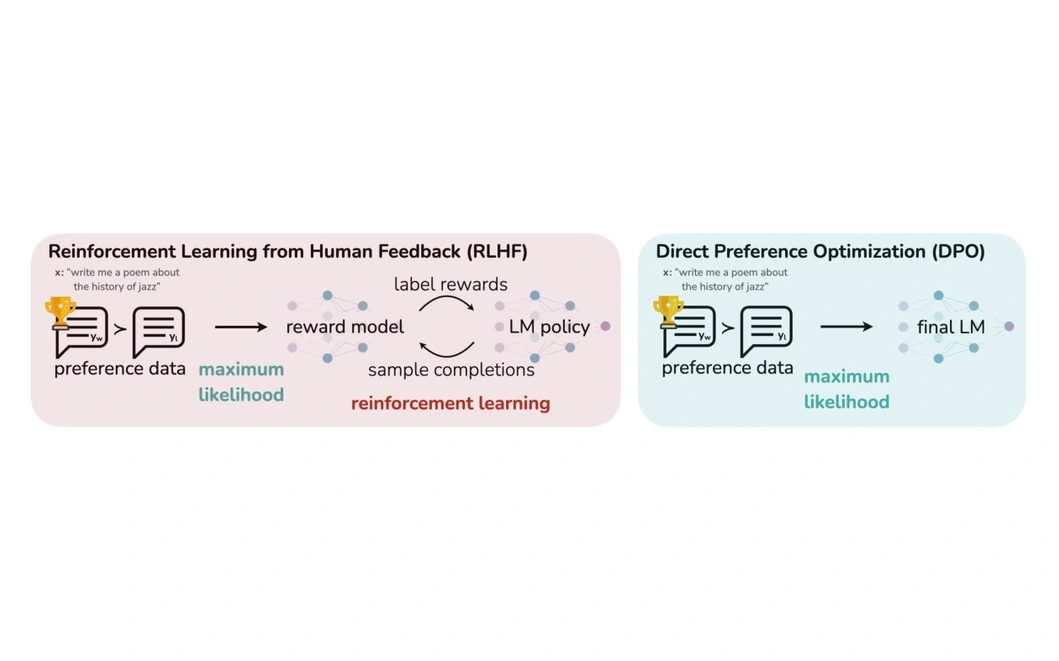
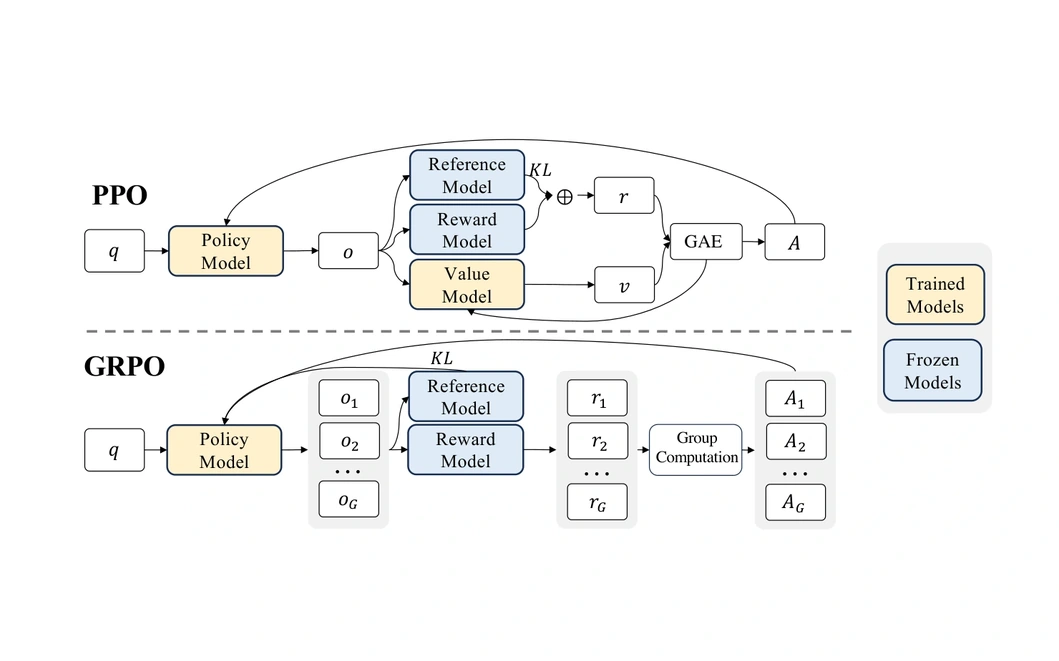
发布强化学习笔记（二）：DPO、GRPO、DAPO 与 GSPO，并互开两篇引用链接

diff --git a/notes/强化学习/强化学习（二）.md b/notes/强化学习/强化学习（二）.md
@@ -1,0 +1,275 @@
+---
+title: "大模型强化学习（二）：DPO、GRPO、DAPO 与 GSPO"
+date: 2026-10-13 00:00:00 +0800
+permalink: /posts/llm-rl-dpo-grpo-dapo-gspo/
+description: "面向强化学习初学者，讲 DPO、GRPO、DAPO、GSPO 四个算法如何在 PPO 框架上做替代与改进。"
+categories: [Reinforcement Learning]
+tags: [LLM, RLHF, DPO, GRPO, DAPO, GSPO]
+math: true
+toc: true
+image:
+  path: /assets/img/rl/rl2-cover.webp
+  alt: "PPO 与 GRPO 的训练流程对比"
+---
+
+<div class="qwen-note" markdown="1">
+
+这是"大模型强化学习"系列的第二篇。第一篇把基础（策略梯度、Actor-Critic）和 **PPO** 讲完了，这一篇讲剩下的四个算法：**DPO、GRPO、DAPO、GSPO**。
+
+先回顾 PPO 的框架：
+
+- PPO 是 **Actor-Critic** 架构：Actor 是语言模型，Critic（价值模型）负责预测基线；
+- 更新时用**重要性采样**让同一批数据能多学几遍，再用**裁剪**限制每次更新的幅度；
+- 代价是要同时维护四个模型：Actor、Critic、Reference、Reward。
+
+如果还没看过[第一篇](/posts/llm-rl-ppo/)，建议先补一下策略梯度和 PPO，本篇会直接用到那两节的结论。
+
+## 1. DPO：把 RL 化简成分类问题
+
+DPO（Direct Preference Optimization，直接偏好优化）来自 2023 年的论文，它的推导同样从"KL 正则化的奖励最大化"出发，只是把优化问题化简成了一个可以直接训练的偏好分类损失。
+
+### 1.1 动机
+
+标准 RLHF 分两步：先用人类偏好数据训练一个**奖励模型**，再用 PPO 优化语言模型，让它拿更高的分、同时不要偏离参考模型：
+
+$$
+\max_{\pi_\theta}\ \mathbb E\Big[r_\phi(x,y)\Big]-\beta\,D_{KL}\Big[\pi_\theta(y\mid x)\,\Big\|\,\pi_{\text{ref}}(y\mid x)\Big]
+$$
+
+$r_\phi$ 是奖励模型的打分（$\phi$ 是它的参数），$\beta$ 控制 KL 约束的强度。这套流程有两个痛点：**要训练多个模型**（奖励模型 + 策略模型，PPO 还要价值模型），而且 **PPO 超参敏感、训练容易崩**。DPO 的想法是：奖励模型只是为了"表达偏好"——哪个回答得分更高、哪个回答得分更低，那能不能直接从偏好数据优化语言模型，跳过它？
+
+### 1.2 DPO 的损失函数
+人类偏好常用 **Bradley-Terry 模型**描述：$p^*(y_1\succ y_2)=\sigma(r^*(y_1)-r^*(y_2))$。$y_1\succ y_2$ 表示人类更偏好 $y_1$，$r^*$ 是**真实但未知**的奖励函数，$\sigma$ 是 sigmoid。
+
+DPO 最精妙的地方在于，它通过数学变换，把奖励模型“消掉”了。在传统 RLHF 中，最优策略 \( \pi^* \) 与奖励函数 \( r \) 之间存在一个已知的闭式关系。DPO 的作者把这个关系反过来写，**用策略来表示奖励**，再代回偏好模型（Bradley-Terry 模型）中，就得到了一个**完全不包含显式奖励函数**的损失函数：
+
+$$
+L_{DPO}=-\mathbb E_{(x,y_w,y_l)\sim\mathcal D}\left[\log\sigma\left(\beta\log\frac{\pi_\theta(y_w\mid x)}{\pi_{\text{ref}}(y_w\mid x)}-\beta\log\frac{\pi_\theta(y_l\mid x)}{\pi_{\text{ref}}(y_l\mid x)}\right)\right]
+$$
+
+$y_w$ 是 winner（人类偏好的回答），$y_l$ 是 loser（不被偏好的），$\mathcal D$ 是偏好数据集，$\beta$ 是温度系数（典型 $0.1$ 左右），$\sigma$ 把括号里的差值映射到 $(0,1)$ 当作"$y_w$ 优于 $y_l$"的概率，外面的负号是因为我们常常做的是梯度下降，所以带上负号将整体最小化。这个式子计算“好回答相对于参考模型的概率提升幅度”与“坏回答相对于参考模型的概率提升幅度”之间的差值。训练的目标就是把这个差值拉大——也就是提高好回答的相对概率，同时压低坏回答的相对概率。
+
+方括号里的两项定义了一个**隐式奖励** $\hat r_\theta=\beta\log\frac{\pi_\theta(y\mid x)}{\pi_{\text{ref}}(y\mid x)}$——它不是奖励模型，但却可以利用策略模型的输出形成奖励信号，这就是标题里"Language Model is Secretly a Reward Model"的含义，也就是前文说的**用策略来表示奖励**。我们可以看看它们的梯度：
+
+$$
+\nabla_\theta L_{DPO}=-\beta\,\mathbb E\left[\underbrace{\sigma\big(\hat r_\theta(y_l)-\hat r_\theta(y_w)\big)}_{\text{判断错得越离谱，权重越大}}\Big(\underbrace{\nabla_\theta\log\pi_\theta(y_w\mid x)}_{\text{提高好回答}}-\underbrace{\nabla_\theta\log\pi_\theta(y_l\mid x)}_{\text{降低坏回答}}\Big)\right]
+$$
+
+权重项：模型还认为坏回答更好时权重接近 1、梯度大；已经判断对了权重接近 0、梯度自动变小。整个式子不需要采样和额外模型，就是一个普通监督学习损失。
+
+![DPO 论文 Figure 1：RLHF 与 DPO 的流程对比](/assets/img/rl/dpo-rlhf-vs-dpo.webp){: .qwen-figure width="1212" height="264" }
+
+图 1 · 左边是传统 RLHF（先训奖励模型再 RL），右边是 DPO（直接用偏好数据做最大似然）。来源：[DPO 原论文，Figure 1](https://arxiv.org/abs/2305.18290)。
+{: .qwen-caption }
+
+DPO 论文的实验也验证了它在"奖励—KL 权衡曲线"上的位置：
+
+![DPO 论文 Figure 2：奖励与 KL 的权衡曲线](/assets/img/rl/dpo-reward-kl.webp){: .qwen-figure width="1212" height="474" }
+
+图 2 · 左图横轴是相对参考模型的 KL 散度，纵轴是真实奖励；在同样的 KL 预算下，DPO 能达到更高的奖励。右图是摘要任务中不同方法对参考模型的胜率随采样温度的变化。来源：[DPO 原论文，Figure 2](https://arxiv.org/abs/2305.18290)。
+{: .qwen-caption }
+
+**DPO 的局限**：它完全依赖**离线**偏好数据集，训练中模型不探索新回答，一旦跑出数据分布就没有纠正信号。这也是后来 GRPO 这类**在线**算法又流行起来的原因。
+
+## 2. GRPO：用组内比较替代价值模型
+
+GRPO（Group Relative Policy Optimization）由 DeepSeek 在 2024 年的 DeepSeekMath 论文中提出，后被 DeepSeek-R1 带火。
+
+### 2.1 动机
+
+PPO 的痛点是优势要靠 GAE，而 GAE 需要一个和策略模型差不多大的**价值模型**，这也是在第一篇里提到的 PPO 最大的问题。
+
+那用什么当基线？GRPO 的回答是：**同一道题多生成几条回答，用它们之间的相对好坏当基线。** 有点对比学习的味道。 对每道题采样 $G$ 条回答并打分，然后标准化：
+
+$$
+\hat A_{i,t}=\tilde r_i=\frac{r_i-\operatorname{mean}(\mathbf r)}{\operatorname{std}(\mathbf r)},
+\qquad \mathbf r=\{r_1,\dots,r_G\}
+$$
+
+$G$ 是组大小（DeepSeekMath 用 64，DAPO 用 16），$r_i$ 是第 $i$ 条回答的奖励，$\operatorname{mean}$ 是这一组奖励的**平均值**（充当基线），$\operatorname{std}$ 是标准差（用来归一化）。注意**同一条回答里所有 token 共享同一个优势**——因为奖励是整段给的，GRPO 就把它原样广播给每个 token。好处有三：**省掉价值模型**（显存大幅下降）、**基线天然合理**（同题回答互相比较，比全局价值函数更贴合"这道题有多难"）、**与奖励模型的训练方式一致**。如果某道题所有回答都对（或都错），奖励全相等，标准差为 0，优势全为 0——**这道题不产生任何梯度**（实现上分母会加一个极小值避免除零）。
+
+> 实现细节：$\operatorname{std}$ 有**总体**和**样本**两种约定，不同框架取法不同，归一化后的数值会有细微差别。
+
+![GRPO 组内比较：同一道题的四条回答如何算出优势](/assets/img/rl/grpo-group.webp){: .qwen-figure width="1723" height="880" }
+
+图 3 · 同一道题采样 4 条回答，两条答对、两条答错。用组内均值 0.5 当基线做标准化（标准差 0.5），答对的拿到正优势 $+1$，答错的拿到负优势 $-1$。注意四个优势相加正好为 0。
+{: .qwen-caption }
+
+### 2.2 GRPO 的目标函数
+
+$$
+J^{GRPO}(\theta)=\mathbb E\Bigg[\frac{1}{G}\sum_{i=1}^{G}\frac{1}{|o_i|}\sum_{t=1}^{|o_i|}\bigg(\min\Big(w_{i,t}(\theta)\hat A_{i,t},\ \operatorname{clip}\big(w_{i,t}(\theta),1-\epsilon,1+\epsilon\big)\hat A_{i,t}\Big)-\beta\,D_{KL}\big[\pi_\theta\,\|\,\pi_{\text{ref}}\big]\bigg)\Bigg]
+$$
+
+$w_{i,t}$ 就是 PPO 里那个 token 级概率比率；外层对组内回答求平均，内层对每条回答内部的 token 求平均，这也意味着每条回答权重相同。$\epsilon$ 通常 $0.2$，$\beta$ 是 KL 惩罚系数（DeepSeekMath 用 $0.04$）。**和 PPO 的一个实现差异**：GRPO 不把 KL 加进奖励，而是**直接加到损失上**，好处是优势的计算不被 KL 项污染。
+
+对照[第一篇](/posts/llm-rl-ppo/)里那张 PPO 与 GRPO 的流程对比图（看下半部分）可以发现，GRPO 的流程里 **Value Model 整个消失了**——这正是它相对 PPO 最核心的简化。
+
+## 3. DAPO：针对 GRPO 的四处短板做特化
+
+DAPO 全称 **Decoupled Clip and Dynamic sAmpling Policy Optimization**（解耦裁剪与动态采样策略优化），来自字节跳动 Seed 团队与清华 AIR。它整体沿用了 GRPO 的框架，主要是进行了四处改动。
+
+| GRPO 的痛点 | 具体表现 | DAPO 的药方 |
+| --- | --- | --- |
+| 探索被扼杀 | 对称裁剪把低概率 token 卡死，熵急剧下降 | **Clip-Higher**：解耦上下界 |
+| 梯度空转 | 一组回答全对或全错，优势全为 0，白算一遍 | **Dynamic Sampling**：筛掉后重采 |
+| 长度偏见 | 按回答归一化，长回答里每个 token 权重被稀释 | **Token-Level Loss**：按 token 数归一化 |
+| 超长惩罚粗暴 | 超过上限一刀切，边界处拿不到有效梯度 | **Overlong Reward Shaping**：渐进式惩罚 |
+
+**① Clip-Higher**
+
+GRPO 的裁剪是对称的 $[1-\epsilon,\,1+\epsilon]$。DAPO 把它拆成不对称的 $[1-\epsilon_{low},\,1+\epsilon_{high}]$，并让 $\epsilon_{high}>\epsilon_{low}$，重点放宽**上界**。这就是 DAPO 名字里 "Decoupled Clip" 的由来。
+
+为什么要放宽上界？关键在于：**裁剪卡住的是新旧策略的概率比率，不是 token 概率本身**。同一个上界 $1+\epsilon=1.2$，对不同旧概率的 token 意味着完全不同的上升空间：
+
+- 旧概率 $0.9$ 的 token：$0.9\times1.2=1.08$ 已经超过 $1$ 了，而概率最多只能到 $1$（对应比率 $1/0.9\approx1.11$，还够不到 $1.2$）。所以这个上界对它**形同虚设**。
+- 旧概率 $0.01$ 的 token：比率一碰 $1.2$ 就封顶，概率最多到 $0.012$——涨了约等于没涨。
+
+而"探索型"的 token 恰恰都是低概率的，这会导致模型想尝试新思路概率却被迅速压下去，熵迅速掉到 $0$。**放宽上界（论文里从 $0.2$ 到 $0.28$）就是给这类 token 多留一点空间，鼓励更广泛的探索。**
+
+**② Dynamic Sampling**
+
+为了防止梯度空转，DAPO 进行了**采样后过滤、不够再补**的循环：
+
+1. 对一个 prompt 正常采样一组 $G$ 条回答；
+2. 立刻用奖励函数给每条回答打分；
+3. 算这组奖励的标准差：**如果为 0（全对或全错），整组丢弃**，不参与训练；
+4. 继续换 prompt 采样，直到凑满一个完整训练批次。
+
+保留条件就是**这组里存在 $i\neq j$ 使 $r_i\neq r_j$**；代码里通常直接写成 `if std(rewards) == 0: skip`。实现上还有个 `max_resample_times` 参数，防止在极端困难或极端简单的 prompt 上无限重试。
+
+**③ Token-Level Loss**
+
+两者唯一的区别就在分母上：
+
+$$
+L^{GRPO}=-\frac{1}{G}\sum_{i=1}^{G}\frac{1}{\lvert o_i\rvert}\sum_{t=1}^{\lvert o_i\rvert}(\cdots),
+\qquad
+L^{DAPO}=-\frac{1}{\sum_i\lvert o_i\rvert}\sum_{i=1}^{G}\sum_{t=1}^{\lvert o_i\rvert}(\cdots)
+$$
+
+GRPO 是"先算每条回答内部的平均，再对回答求平均"——每条回答**等权**。于是一条 1000 token 的长回答，内部每个 token 分到的权重只有短回答的几分之一，模型自然倾向于生成更短、可能推理不充分的答案。
+
+DAPO 直接把一个 batch 里**所有 token 的损失混在一起求全局平均**，分母是 $\sum_i\lvert o_i\rvert$，也就是所有回答的总 token 数。这样一来，不管 token 属于长回答还是短回答，**权重完全相同**，长度偏见被根除，长链推理里每一步都能拿到公平的优化信号。
+
+**④ Overlong Reward Shaping**
+
+GRPO 对超过最大长度的回答，常见做法是直接截断，或者给一个粗暴的固定惩罚（奖励置零、固定负值）。这种"一刀切"在边界处没有任何梯度——模型只知道"我被罚了"，不知道"稍微短一点会更好"。
+
+DAPO 换成一个**三段式**的长度惩罚，让惩罚随长度平滑变化：
+
+| 区间 | 长度范围 | 惩罚 |
+| --- | --- | --- |
+| 安全区 | $L\le L_{\max}-L_{\text{cache}}$ | $0$ |
+| 警告区 | $L_{\max}-L_{\text{cache}}<L\le L_{\max}$ | 从 $0$ **线性增加**到 $-1$ |
+| 超限区 | $L>L_{\max}$ | 固定最大惩罚（如 $-1$） |
+
+论文里取 $L_{\max}=16384$、$L_{\text{cache}}=4096$：它给模型一段能感知到的渐变区间，而不是一个固定上限。
+
+除了惩罚，还有一层 **Overlong Filtering**：把那些因为撞到最大长度而被强制截断的回答**直接从损失里剔除**。因为被截断的回答奖励噪声极大——模型分不清低分是"答得差"还是"只是被截断了"，留着反而污染梯度。
+
+**⑤去掉 KL 惩罚**
+
+DAPO 把 KL 项整个移除了。理由是在数学、代码这类**可验证奖励**的推理任务上，目标是让模型学出全新的推理能力，**有意地偏离初始策略**；这时把模型拴在 SFT 模型附近的 KL 锚定反而成了束缚。
+
+**效果（AIME24 avg@32）**：朴素 GRPO 30 → +Overlong Filtering 36 → +Clip-Higher 38 → +Soft Overlong Punishment 41 → +Token-level Loss 42 → **+Dynamic Sampling（完整 DAPO）50**。
+
+![DAPO 论文 Figure 2：Clip-Higher 对准确率和熵的影响](/assets/img/rl/dapo-clip-higher.webp){: .qwen-figure width="1440" height="486" }
+
+图 4 · 左图是 AIME 准确率，右图是生成熵。青色不用 Clip-Higher，紫色使用后。不用时熵在 500 步内掉到接近 0（熵坍缩），准确率停滞在 0.25；使用后熵稳定在 0.4~0.5，准确率升到接近 0.40。来源：[DAPO 原论文，Figure 2](https://arxiv.org/abs/2503.14476)。
+{: .qwen-caption }
+
+DAPO 论文还给出了训练过程中的四项监控指标：
+
+![DAPO 论文 Figure 7：训练过程中的四项关键指标](/assets/img/rl/dapo-metrics.webp){: .qwen-figure width="1440" height="927" }
+
+图 5 · (a) 平均回答长度从 1000 涨到 4500 左右，说明模型学会了更长的推理；(b) 奖励分数稳步上升；(c) 生成熵在初期快速下降后回升并稳定，说明既没有熵坍缩也没有失控；(d) 平均概率的变化。来源：[DAPO 原论文，Figure 7](https://arxiv.org/abs/2503.14476)。
+{: .qwen-caption }
+
+## 4. GSPO：把重要性比率换成序列级
+
+GSPO（Group Sequence Policy Optimization）来自 Qwen 团队 2025 年。
+它的改进是**把重要性比率、裁剪和优化的单位，从 token 改回序列**，让优化粒度重新和奖励粒度对齐。
+
+### 4.1 GRPO 的问题出在哪
+
+- 奖励是给**整段回答**的一个标量；
+- 但 GRPO 的重要性比率和裁剪，是**逐 token** 做的。
+
+这就产生一个结构性矛盾：整段回答共享同一个奖励，可回答内部不同 token 的新旧策略比率 $w_{i,t}$ 可能剧烈波动。这种 token 级方差会随着生成长度**累积**，再被裁剪机制**放大**，导致梯度估计严重偏差，训练可能在毫无征兆的情况下**崩溃，而且不可逆**。
+
+这个问题在 **MoE** 上尤其致命：MoE 里同一个 token 在新旧策略下可能被路由到不同专家，概率变化天然更剧烈。
+
+### 4.2 token -> 序列级比率
+
+GRPO 中的 token 级比率长这样：
+
+$$
+w_{i,t}(\theta)=\frac{\pi_\theta(y_{i,t}\mid x,\,y_{i,<t})}{\pi_{\theta_{\text{old}}}(y_{i,t}\mid x,\,y_{i,<t})}
+$$
+
+如果我们想改成序列级（样本级），那么最直接的方法就是把一个回答的 token 比率全部连乘：
+
+$$
+\frac{\pi_\theta(y_i\mid x)}{\pi_{\theta_{\text{old}}}(y_i\mid x)}=\prod_{t=1}^{\lvert y_i\rvert}w_{i,t}(\theta)
+$$
+
+问题来了：**连乘会随长度指数级膨胀或收缩**。同样程度的策略偏移，10 个 token 的回答比率可能才 $1.2$，500 个 token 的可能已经是几千。GSPO 的做法是对这个连乘**开 $\lvert y_i\rvert$ 次方**：
+
+$$
+s_i(\theta)=\left(\frac{\pi_\theta(y_i\mid x)}{\pi_{\theta_{\text{old}}}(y_i\mid x)}\right)^{\frac{1}{\lvert y_i\rvert}}
+$$
+
+开方就是**几何平均**，作用是**消掉长度**。它在数学上等价于"先对每个 token 的比率取对数、求算术平均，再取指数"，也就是实现里真正用的写法：
+
+$$
+s_i(\theta)=\exp\left(\frac{1}{\lvert y_i\rvert}\sum_{t=1}^{\lvert y_i\rvert}\log w_{i,t}(\theta)\right)
+$$
+
+这个式子可以理解成"新策略生成这个回答的**平均信心**变了多少"：$s_i>1$ 说明新策略对这个回答里 token 的平均概率提升了、更有信心；$s_i<1$ 说明整体信心下降。
+
+
+目标函数和 GRPO 几乎一样，只是把 token 级比率换成序列级、去掉内层 token 平均：
+
+$$
+J^{GSPO}(\theta)=\mathbb E\left[\frac{1}{G}\sum_{i=1}^{G}\min\Big(s_i(\theta)\hat A_i,\ \operatorname{clip}\big(s_i(\theta),1-\epsilon,1+\epsilon\big)\hat A_i\Big)\right]
+$$
+
+其中 $\hat A_i$ 是组相对优势，和 GRPO 完全相同。需要注意的是：序列比率的波动幅度比 token 级比率小得多，所以裁剪范围得重新调，论文实验里 GSPO 用 $3\times10^{-4}$ 和 $4\times10^{-4}$。
+
+![GSPO 论文 Figure 1：GSPO 与 GRPO 的训练曲线对比](/assets/img/rl/gspo-training-curves.webp){: .qwen-figure width="1389" height="801" }
+
+图 6 · 上方是训练奖励随算力的变化，下方是 AIME'24、LiveCodeBench 和 CodeForces 的成绩。在原论文这组实验里，同样算力下 GSPO（红）的曲线高于 GRPO（蓝）。来源：[GSPO 原论文，Figure 1](https://arxiv.org/abs/2507.18071)。
+{: .qwen-caption }
+
+GSPO 的这些优点已经应用到最新的 Qwen3 模型训练中。
+
+## 5. 横向对比
+
+| 算法 | 重要性比率 | 优势来源 | 损失聚合 | 裁剪 | 需要哪些模型 |
+| --- | --- | --- | --- | --- | --- |
+| PPO | token 级 $\frac{\pi_\theta}{\pi_{\theta_{\text{old}}}}$ | GAE + 价值模型 | 样本内按长度平均，再对样本平均 | $[1-\epsilon,1+\epsilon]$ | 策略 + 参考 + 奖励 + **价值** |
+| DPO | 无（不做重要性采样） | 无（直接拟合偏好概率） | 整个偏好对 | 无 | 策略 + 参考（离线偏好数据） |
+| GRPO | 同 PPO（token 级） | 组内标准化奖励 | 样本内按长度平均，再对样本平均 | $[1-\epsilon,1+\epsilon]$ | 策略 + 参考 + 奖励 |
+| DAPO | 同 PPO（token 级） | 组内标准化奖励 | **全部 token 统一平均** | $[1-\epsilon_{low},1+\epsilon_{high}]$ | 策略 + 参考 + 奖励 |
+| GSPO | 序列级 $\left(\frac{\pi_\theta}{\pi_{\theta_{\text{old}}}}\right)^{1/|y_i|}$ | 组内标准化奖励 | **按序列平均** | $[1-\epsilon,1+\epsilon]$，$\epsilon$ 小得多 | 策略 + 参考 + 奖励 |
+
+此外：**PPO/GRPO/DAPO/GSPO 的典型训练流程都是在线式的**——周期性用当前策略 rollout 出新回答、拿到新奖励再更新；**DPO 是离线式的**，主要在一份固定的偏好数据上做监督学习。不过"在线"不等于每次梯度更新都重新采样——PPO 类方法本来就会把同一批旧数据用上几轮，rollout 的刷新频率取决于具体实现。
+
+
+**几个容易踩的坑**：
+
+1. **把 DPO 当成"更省的 PPO"**：DPO 学的是固定数据集上的相对偏好，无法通过探索发现数据里没有的更好回答。
+2. **忽略长度归一化的位置**：GRPO 是"先样本内平均、再样本间平均"，DAPO 是"所有 token 一起平均"，长回答的权重完全不同。
+3. **把超参数跨算法照搬**：GSPO 的裁剪范围是 $3\times10^{-4}$ 量级，GRPO 是 $0.2$ 量级，差三个数量级。
+4. **以为裁剪越小越安全**：DAPO 的实验表明上界太紧会抑制探索，最终导致熵坍缩。
+5. **忘了过滤零梯度样本**：全对或全错的题优势为 0，对梯度没贡献还稀释有效 batch。
+
+## 6. 论文与学习材料
+
+**原始论文**：[PPO](https://arxiv.org/abs/1707.06347)（2017）、[DPO](https://arxiv.org/abs/2305.18290)（2023）、[DeepSeekMath / GRPO](https://arxiv.org/abs/2402.03300)（2024）、[DAPO](https://arxiv.org/abs/2503.14476)（2025）、[GSPO](https://arxiv.org/abs/2507.18071)（2025）。
+
+**相关基础工作**：[TRPO](https://arxiv.org/abs/1502.05477)（2015）、[GAE](https://arxiv.org/abs/1506.02438)（2015）、[InstructGPT](https://arxiv.org/abs/2203.02155)（2022）、[DeepSeek-R1](https://arxiv.org/abs/2501.12948)（2025）。
+
+
+</div>
